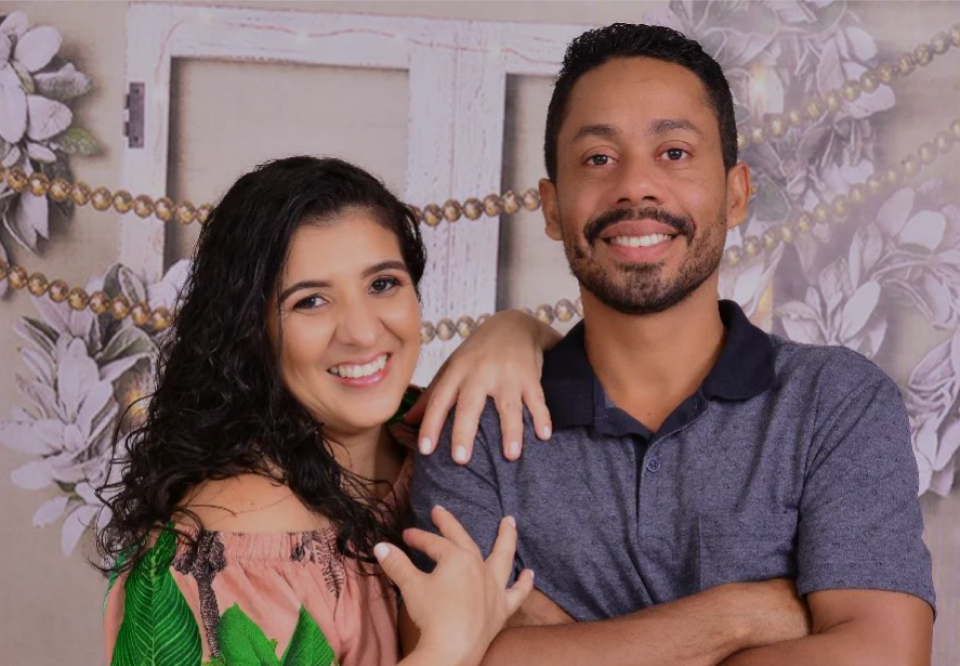
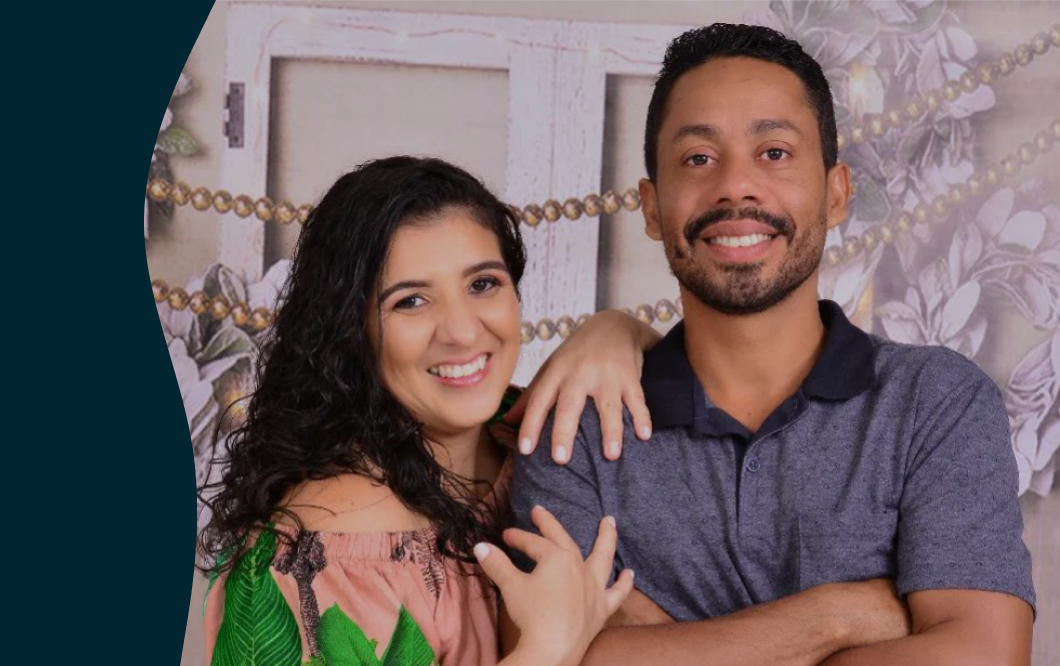
Fix Vector / Motivational Speech Figure

diff --git a/src/layout/docs/AboutUs.tsx b/src/layout/docs/AboutUs.tsx
@@ -73,18 +73,11 @@ export default function AboutUs() {
                         color="#012531"
                     />
                 </article>
-                <div className='motivational_speech_vector'>
-                    <Image
-                        src={vector}
-                        alt='Vetor'
-                        style={{ width: '13.5rem', height: '41.625rem' }}
-                    />
-                </div>
                 <figure className='motivational_speech_figure'>
                     <Image
                         src={motivationalSpeechFigure}
                         alt='Márcio e Natália'
-                        style={{ width: '60rem', height: '41.625rem' }}
+                        style={{ width: '66.25rem', height: '41.625rem' }}
                     />
                 </figure>
             </article>

diff --git a/src/styles/stylus/AboutUs.module.css b/src/styles/stylus/AboutUs.module.css
@@ -34,6 +34,7 @@
 .motivational_speech {
     background-color: #012531;
     display: flex;
+    padding-left: 8.3125rem;
 }
 
 .motivational_speech_content {
@@ -42,7 +43,6 @@
     flex-direction: column;
     justify-content: center;
     gap: 2.1875rem;
-    padding: 0 6.25rem 0 8.3125rem;
 }
 
 .motivational_speech_heading {
@@ -58,9 +58,4 @@
     color: #FFFFFF;
     font-weight: 500;
     text-align: justify;
-}
-
-.motivational_speech_vector {
-    position: absolute;
-    right: 52.75rem;
 }
